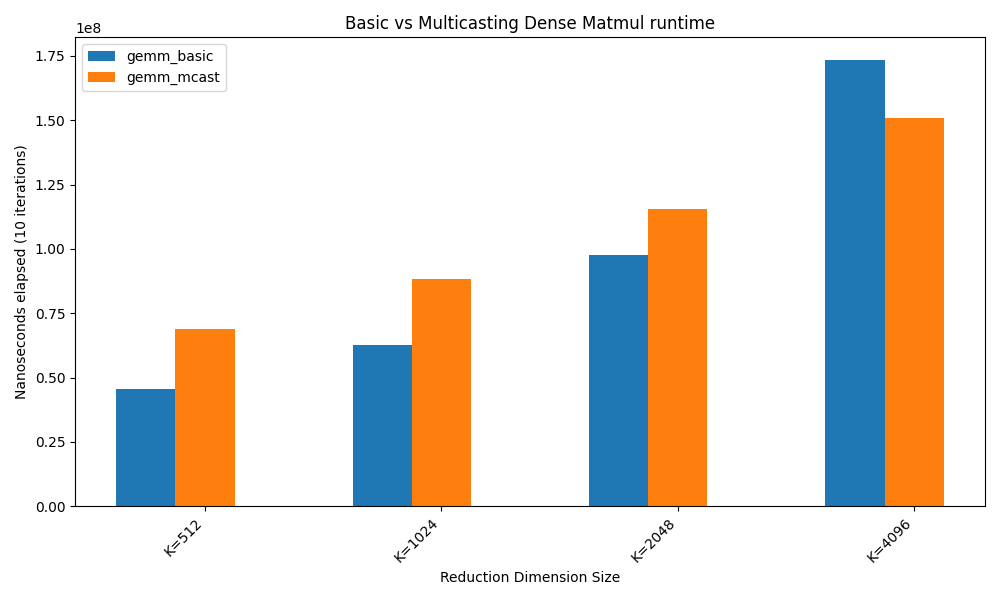
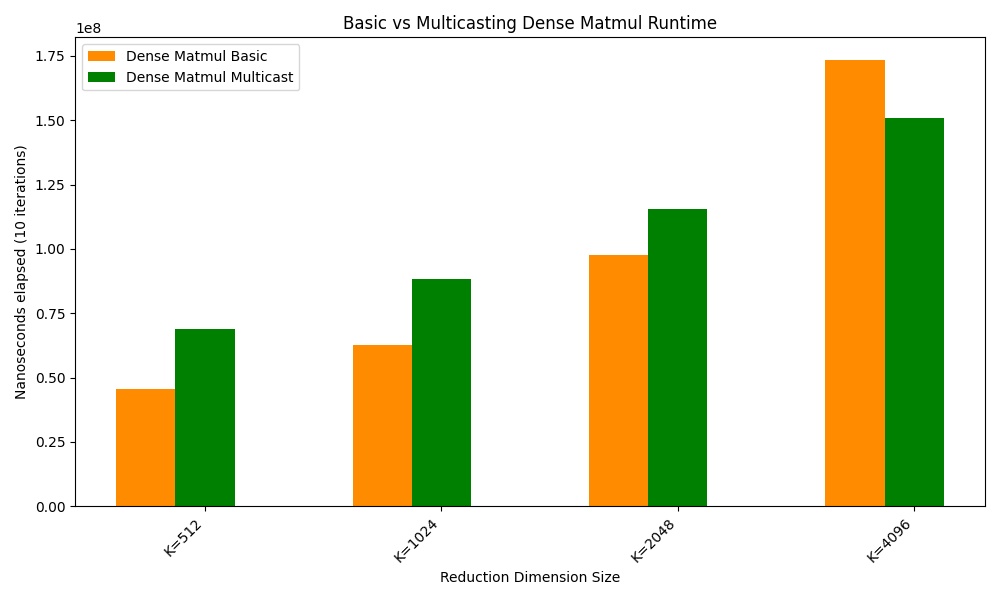
progress on flexible block allocation

diff --git a/tt_metal/programming_examples/rahmy/block_spmm/inc/host_code.hpp b/tt_metal/programming_examples/rahmy/block_spmm/inc/host_code.hpp
@@ -1,5 +1,6 @@
 #pragma once
 
+#include <sys/types.h>
 #include <algorithm>
 #include <cstdint>
 
@@ -93,7 +94,7 @@ using HostCodeFunctionPtr = void (*)(
 
 
 static std::pair<HostCodeFunctionPtr, std::string> HostCodeRegistry[] = {
-    // {bsr_spmm_multicore_reuse_merge_blocks, "bsr_spmm_multicore_reuse_merge_blocks"}, // pausing development of this
+    {bsr_spmm_multicore_reuse_merge_blocks, "bsr_spmm_multicore_reuse_merge_blocks"}, // resuming development of this
     {bsr_spmm_multicore_reuse_many_blocks_per_core, "bsr_spmm_multicore_reuse_many_blocks_per_core"}, // 0
     {bsr_spmm_multicore_reuse, "bsr_spmm_multicore_reuse"}, // 1
     {bsr_spmm_multicore_reuse_naive, "bsr_spmm_multicore_reuse_naive"}, // 2
@@ -233,11 +234,12 @@ void bsr_spmm_multicore_reuse_merge_blocks(
         folded_index++;
     }
     uint32_t height_of_folded_matrix = Rt * nnz_rows;
+    // the utils function doesn't respect BSR blocks. So it chooses subblock size bigger than BSR block size
     auto matmul_params = bmm_op_utils::get_large_matmul_params(height_of_folded_matrix, Nt, num_cores_y, num_cores_x, in0_block_w);
     uint32_t per_core_M = std::get<0>(matmul_params);
     uint32_t per_core_N = std::get<1>(matmul_params);
-    uint32_t out_subblock_h = std::get<2>(matmul_params);
-    uint32_t out_subblock_w = std::get<3>(matmul_params);
+    uint32_t out_subblock_h = std::min(Rt, std::get<2>(matmul_params));
+    uint32_t out_subblock_w = std::min(Ct, std::get<3>(matmul_params));
     
     // pick the largest subblock size that fits within the block size
     // uint32_t out_subblock_h, out_subblock_w;
@@ -378,6 +380,16 @@ void bsr_spmm_multicore_reuse_merge_blocks(
 
     auto indptr_cb_index = CBIndex::c_3; // 3
     auto cb_indptr = MakeCircularBuffer(program, all_cores, indptr_cb_index, dram_buffer_indptr_size, std::min(indexing_data_single_tile_size, dram_buffer_indptr_size), tt::DataFormat::Int32);
+
+
+    // now we have some thread-to-thread communication to do per core. 
+    // Let this circular buffer be the mediator for that. 
+    // Notice its size and page size are small (16 bytes)
+    // TODO: add page size and CB index as compile time parameters to three kernels
+    auto per_core_sync_CB_index = CBIndex::c_4;
+    uint32_t bytes_for_sync =  (per_core_M / per_block_M) * sizeof(uint32_t); 
+    uint32_t per_core_sync_CB_size = 2 * bytes_for_sync;
+    auto cb_sync = MakeCircularBuffer(program, all_cores, per_core_sync_CB_index, per_core_sync_CB_size, bytes_for_sync, tt::DataFormat::UInt32);
 
      /*
      * Compile time arguments

diff --git a/spmm_scripts/dense_ablation_gather_csv_data.py b/spmm_scripts/dense_ablation_gather_csv_data.py
@@ -80,16 +80,16 @@ bar_values = np.array(bar_values)  # shape: (n_dicts, n_groups)
 fig, ax = plt.subplots(figsize=(10, 6))
 bar_width = 0.25
 x = np.arange(n_groups)
-
+colors = ['darkorange', 'green']
 for i in range(n_dicts):
-    ax.bar(x + i * bar_width, bar_values[i], width=bar_width, label=f'Dict {i+1}')
+    ax.bar(x + i * bar_width, bar_values[i], width=bar_width, color=colors[i], label=f'Dict {i+1}')
 
 ax.set_xlabel('Reduction Dimension Size')
 ax.set_ylabel('Nanoseconds elapsed (10 iterations)')
-ax.set_title('Basic vs Multicasting Dense Matmul runtime')
+ax.set_title('Basic vs Multicasting Dense Matmul Runtime')
 ax.set_xticks(x + bar_width)
 ax.set_xticklabels([f'K={k}' for k in k_vals], rotation=45, ha='right')
-ax.legend(['gemm_basic', 'gemm_mcast'])
+ax.legend(['Dense Matmul Basic', 'Dense Matmul Multicast'])
 
 plt.tight_layout()
 plt.show()

diff --git a/tt_metal/programming_examples/rahmy/block_spmm/inc/test_suite.hpp b/tt_metal/programming_examples/rahmy/block_spmm/inc/test_suite.hpp
@@ -106,7 +106,7 @@ namespace bsr_test_suite {
     };
     std::tuple<bsr_matrix<bfloat16>, dense_matrix<bfloat16>, std::string> test_huge_diag() {
 
-            // matmul params setup
+        // matmul params setup
         uint32_t M = 2048;
         uint32_t N = 2048;
         uint32_t K = 2048;

diff --git a/tt_metal/programming_examples/rahmy/block_spmm/README.md b/tt_metal/programming_examples/rahmy/block_spmm/README.md
@@ -1,4 +1,10 @@
 # SpMM in BSR format
+In this readme:
+
+1. Directory Structure
+2. Specifying which version of the SpMM algorithm you want to run
+3. How to add a test case
+4. How to build and run the test suite 
 
 ### Directory structure
 ```
